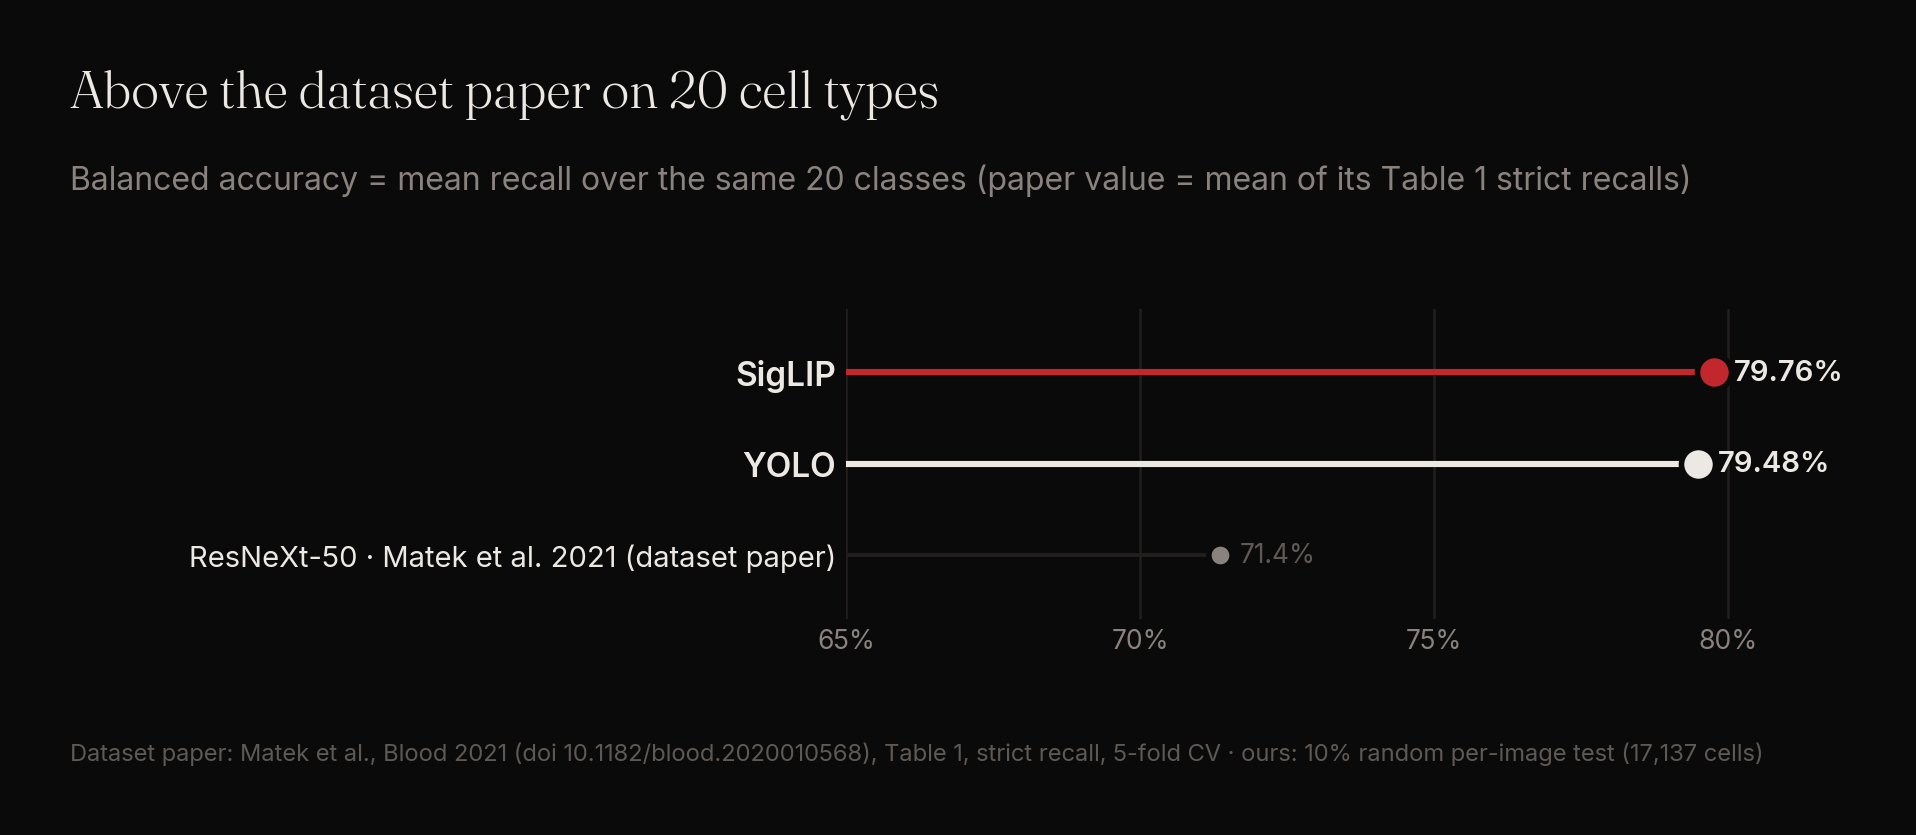
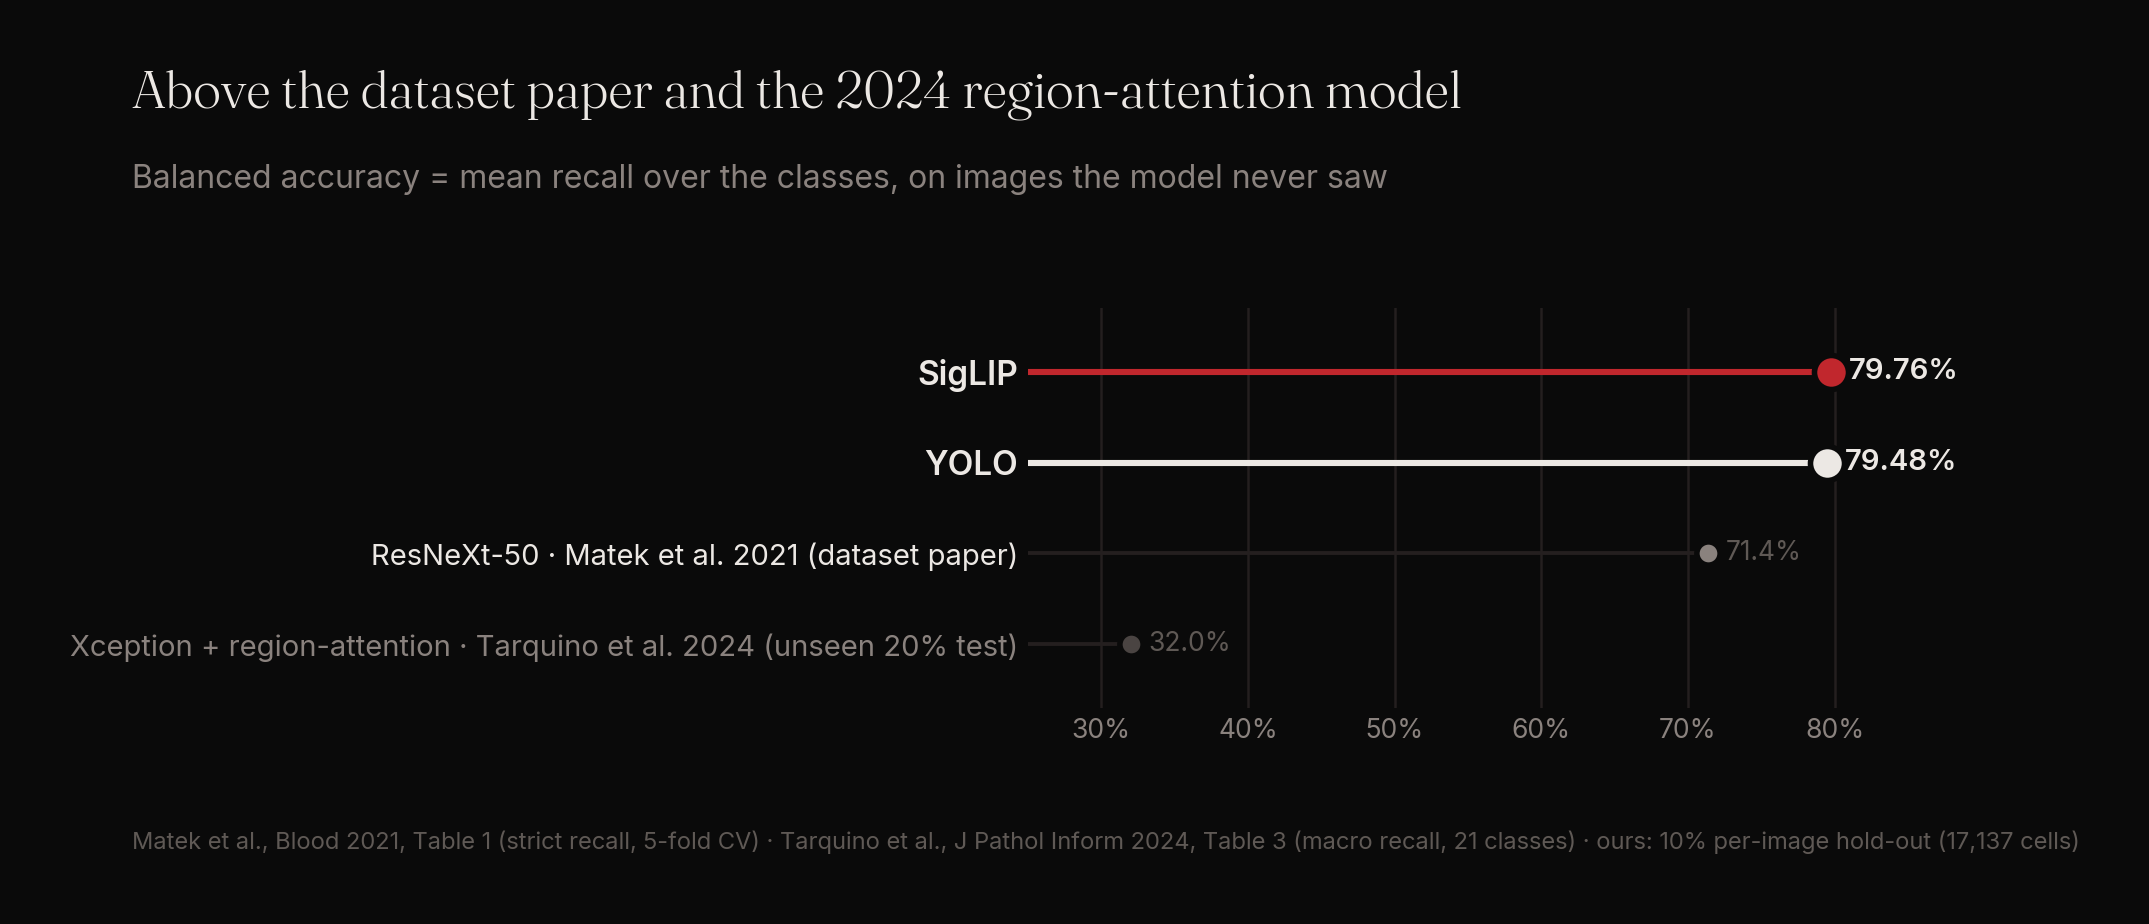
Add comparison with other published results on this dataset

diff --git a/README.md b/README.md
@@ -1,4 +1,4 @@
-# Bone marrow cell classification — 20 cell types, above the dataset paper
+# Bone marrow cell classification — 20 cell types, above the published baselines
 
 Two image classifiers, YOLO and SigLIP, were trained with one fixed recipe, **without dataset-specific tuning**, on the largest public bone marrow cytology dataset (Matek et al. 2021, 171,000+ expert-labelled cells) and tested on a held-out set of 17,137 cells.
 
@@ -89,6 +89,24 @@ The paper (ResNeXt-50, 250 × 250 px input, classes upsampled to about 25,000 im
 
 Not the same protocol: the paper averages five folds over all images, we test once on a 10 % hold-out and train on at most 4,000 images per class. Both are per-image random splits of the same 20 classes.
 
+### Other published results on this dataset
+
+| Method | Protocol | Macro recall (balanced accuracy) | F1 | Source |
+|---|---|---|---|---|
+| **SigLIP** (ours) | unseen 10 % hold-out, 20 classes | **79.76 %** | macro 0.76 · weighted 0.85 | this repo |
+| **YOLO** (ours) | unseen 10 % hold-out, 20 classes | 79.48 % | **macro 0.77 · weighted 0.86** | this repo |
+| Xception + region-attention embedding (Tarquino et al. 2024) | unseen 20 % test set, 21 classes | 32 % | macro 0.33 · weighted 0.56 | Table 3 |
+| same model, cross-validation | repeated 3-fold CV on the other 80 % | 66 % | macro 0.69 · weighted 0.82 | Table 2 |
+| RegNetY-32GF, as tabulated by Tarquino et al. | 5-fold CV | 75 % ¹ | 0.76 ¹ | Table 4 |
+| Inception-ResNetV2, as tabulated by Tarquino et al. | hold-out | 59 % ¹ | 0.57 ¹ | Table 4 |
+| Siamese network, as tabulated by Tarquino et al. | hold-out | – | **0.81** ¹ | Table 4 |
+
+¹ Averaging (macro or weighted) not stated in the table.
+
+On a test set the model never saw, both of our models are well above the 2024 region-attention model (79.8 % vs 32 % macro recall). The Siamese network listed by Tarquino et al. reports a higher F1 (0.81) than our macro F1 (0.77); its averaging and split are not stated, so we list it without claiming a comparison either way.
+
+A 2025 ensemble study (MobileNetV3 + ResNet18) reports 94 % accuracy on this dataset, but its test table lists about 4,000 test images for every class — including abnormal eosinophils, which have only 8 images in the whole dataset — so its test set must contain augmented copies; we do not compare against it.
+
 ---
 
 ## Our approach
@@ -160,5 +178,7 @@ The largest confusions are between neighbours: band vs segmented neutrophils (10
 
 - Matek C., Krappe S., Münzenmayer C., Haferlach T., Marr C. *Highly accurate differentiation of bone marrow cell morphologies using deep neural networks on a large image data set.* Blood 138(20), 2021. [doi:10.1182/blood.2020010568](https://doi.org/10.1182/blood.2020010568)
 - Dataset: Bone-Marrow-Cytomorphology_MLL_Helmholtz_Fraunhofer, The Cancer Imaging Archive, [doi:10.7937/TCIA.AXH3-T579](https://doi.org/10.7937/TCIA.AXH3-T579), CC BY 4.0
+- Tarquino J. et al. *Engineered feature embeddings meet deep learning: A novel strategy to improve bone marrow cell classification and model transparency.* Journal of Pathology Informatics 15, 2024. [doi:10.1016/j.jpi.2024.100390](https://doi.org/10.1016/j.jpi.2024.100390)
+- *Automated bone marrow cell classification using ensemble learning: performance, generalization, and clinical interpretability.* [PMC13272068](https://pmc.ncbi.nlm.nih.gov/articles/PMC13272068/)
 - Ultralytics YOLO — [docs.ultralytics.com](https://docs.ultralytics.com)
 - SigLIP (Google) — [huggingface.co/google](https://huggingface.co/google)
